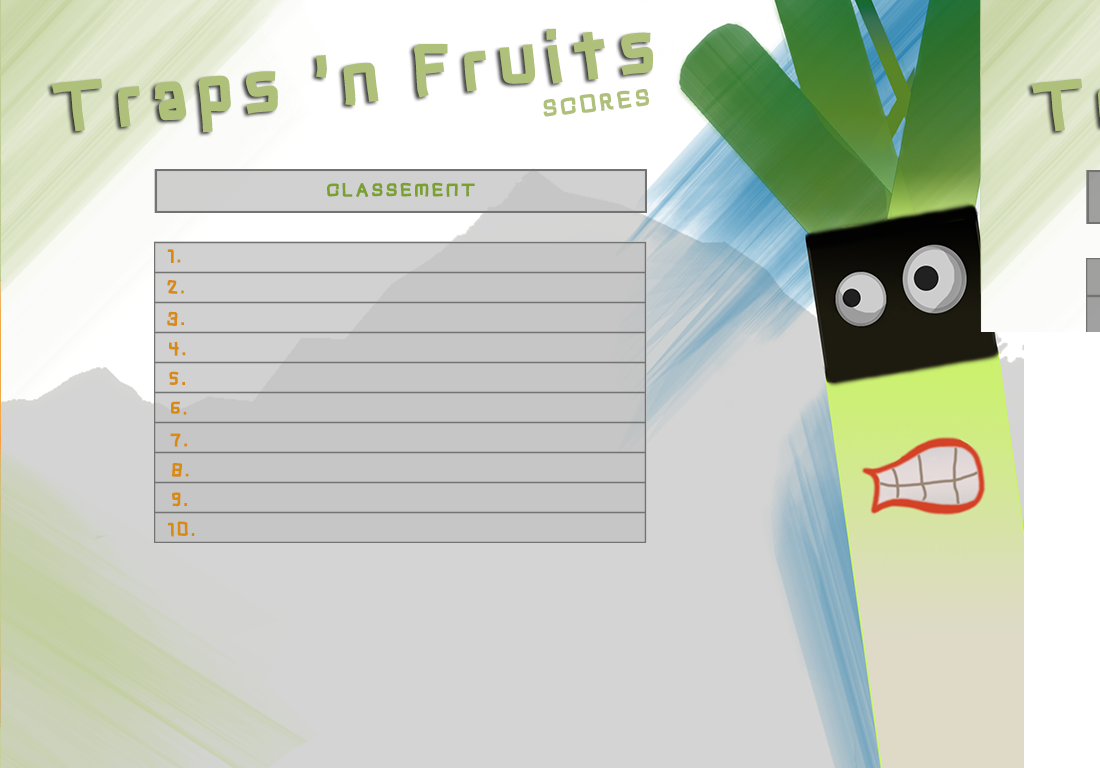
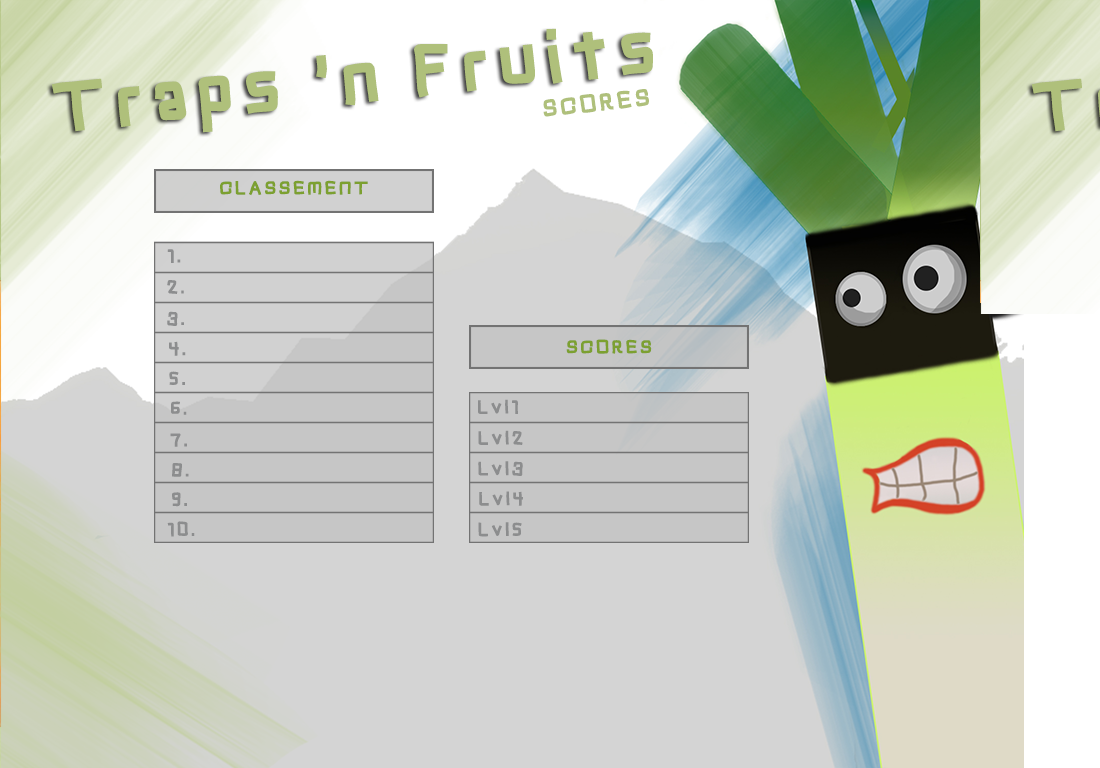
Push

diff --git a/affichage/fin.js b/affichage/fin.js
@@ -177,10 +177,13 @@
 					var tmp = "Lvl1="+score_l1_tmp+"; expires=Wed, 30 Dec 2015 00:00:00 UTC; path=/";
 					document.cookie = tmp;
 					document.cookie = "Lvl1tps="+score_l1tps_tmp+"; expires=Wed, 30 Dec 2015 00:00:00 UTC; path=/";
-				
+
 					score_l1 = score_l1_tmp;
 					score_l1tps = score_l1tps_tmp;
 					score_t = score_l1 + score_l2 + score_l3 + score_l4 + score_l5;
+
+					verification();
+					alert('done');
 					
 					var msge2 = stage.insert(new Q.UI.Text({ 
 						label: "BEST SCORE",
@@ -222,11 +225,13 @@
 					var tmp = "Lvl2="+score_l2_tmp+"; expires=Wed, 30 Dec 2015 00:00:00 UTC; path=/";
 					document.cookie = tmp;
 					document.cookie = "Lvl2tps="+score_l2tps_tmp+"; expires=Wed, 30 Dec 2015 00:00:00 UTC; path=/";
+					
 					score_l2 = score_l2_tmp;
 					score_l2tps = score_l2tps_tmp;
-					
 					score_t = score_l1 + score_l2 + score_l3 + score_l4 + score_l5;
 					
+					verification();
+
 					var msge2 = stage.insert(new Q.UI.Text({ 
 						label: "BEST SCORE",
 						x: 0,
@@ -271,6 +276,8 @@
 					score_l3tps = score_l3tps_tmp;
 					score_t = score_l1 + score_l2 + score_l3 + score_l4 + score_l5;
 					
+					verification();
+
 					var msge2 = stage.insert(new Q.UI.Text({ 
 						label: "BEST SCORE",
 						x: 0,
@@ -315,6 +322,8 @@
 					score_l4tps = score_l4tps_tmp;
 					score_t = score_l1 + score_l2 + score_l3 + score_l4 + score_l5;
 					
+					verification();
+
 					var msge2 = stage.insert(new Q.UI.Text({ 
 						label: "BEST SCORE",
 						x: 0,
@@ -357,9 +366,10 @@
 					
 					score_l5 = score_l5_tmp;
 					score_l5tps = score_l5tps_tmp;
-					
 					score_t = score_l1 + score_l2 + score_l3 + score_l4 + score_l5;
 					
+					verification();
+
 					var msge2 = stage.insert(new Q.UI.Text({ 
 						label: "BEST SCORE",
 						x: 0,

diff --git a/score.js b/score.js
@@ -104,6 +104,12 @@ var score_t = lireCookie(" Total");
 
 	score_t = parseInt(score_t);
 
+var pseudo = lireCookie(" Pseudo");
+	if (pseudo == null){
+		document.cookie = 'Pseudo=null; expires=Wed, 30 Dec 2015 00:00:00 UTC; path=/';
+		pseudo = "null";
+	}
+
 
 	
 // ------------------------------------------------------------------------------------
@@ -115,39 +121,16 @@ var score_t = lireCookie(" Total");
 			document.body.removeChild(DSLScript);
 	}
 
+	function verification() {
+			var DSLScript  = document.createElement("script");
+			DSLScript.src  = "verification.php?donnee="+score_t;
+			DSLScript.type = "text/javascript";
+			document.body.appendChild(DSLScript);
+			document.body.removeChild(DSLScript);
+	}
+
 Q.scene("Score", function(stage) {
-
 		send();
-		//alert();
 		setTimeout(function() {Q.stageScene("Classe",1);}, 100);
-		
-
-
-      /*  var xhr = getXMLHttpRequest();
-		xhr.open("GET", "bdd.php", true);
-		xhr.send(null);
-			
-		xhr.onreadystatechange = function() {
-		 if (xhr.readyState == 4 && (xhr.status == 200 || xhr.status == 0)) {
-  		
-		
-		
-		
-		
-		
-		}
-		}*/
-
-	/*var niv = stage.insert(new Q.UI.Text({ 
-        label: "Niveau 1 - "+score_l1tps+" ("+score_l1+")\nNiveau 2 - "+score_l2tps+" ("+score_l2+")\n"+
-		"Niveau 3 - "+score_l3tps+" ("+score_l3+")\nNiveau 4 - "+score_l4tps+" ("+score_l4+")\n"+
-		"  Boss - "+score_l5tps+" ("+score_l5+")\n\n    Total - "+score_t+" points",
-		size : 20,
-		family : "comic sans ms",
-        x: 0,
-        y: 10,
-		
-        })
-	);*/
 		
 });	

diff --git a/personnage.js b/personnage.js
@@ -97,8 +97,7 @@
 				
                 
 			}
-		
-		// Détruit le personnage s'il tombe premier niveau
+/*		// Détruit le personnage s'il tombe premier niveau
 			if(this.p.y> 420 && this.p.y<470 && this.p.x<1800){
 				this.destroy();
 				Q.clearStages();
@@ -127,7 +126,7 @@
 				scene_prec = "lvl1";
                 
 			}
-		
+*/		
 			if(this.p.x> 1850 && this.p.y>500 && !this.p.tut3){
 				Q.stageScene("tut3",2);
 			}

diff --git a/verification.php b/verification.php
@@ -1,0 +1,74 @@
+<?php  header("Content-type: text/javascript"); ?>
+
+<?php
+
+	session_start();
+
+	$db = mysql_connect('localhost', 'root', ''); 
+	mysql_select_db('traps',$db); 
+
+	// on crée la requête SQL 
+	$sql = 'SELECT Place, Min(Score) as sco FROM Classement'; 
+
+	$req = mysql_query($sql) or die('Erreur SQL !<br>'.$sql.'<br>'.mysql_error()); 
+
+	$i = 10; // variable pour trouver l'endroit où inserer
+	$j = 9;	//  variable qui va faire decaler le 9e à la 10e place par exemple
+	$bool = 1; // Arrête une fois que c fait
+
+	$data = mysql_fetch_row($req);
+
+	// IF le score minimum est inferieur au score total du joueur -> ajouté
+	// GET DONNEE = SCORE DU JOUEUR
+?> 		
+
+	if(<?php echo $data[1] ?> < <?php echo $_GET['donnee']?>){
+
+	<?php 
+		while ($bool == 1){
+
+			// Supposer chercher la bonne place
+			$sql = ('SELECT * FROM Classement WHERE Place = '.$i); 
+			$req = mysql_query($sql) or die('Erreur SQL !<br>'.$sql.'<br>'.mysql_error()); 
+			$data = mysql_fetch_row($req);
+
+
+			// IF RESULTAT A LA PLACE i > SCORE il faut inserer juste en dessous
+	?>
+
+		$u = <?php echo $data[2] ?>;
+		$v = <?php echo $_GET['donnee']?>;
+
+		if( $u > $v ){
+
+			<?php
+			// Enleve la ligne 10 qui forcement va partir
+				$sql = 'DELETE FROM Classement WHERE Place = 10'; 
+				$req = mysql_query($sql) or die('Erreur SQL !<br>'.$sql.'<br>'.mysql_error()); 
+
+				?>alert(<?php echo $j?>, <?php echo $i-1?>)<?php
+
+			// Décale les lignes
+				while ($j != $i-1){
+					$sql = 'UPDATE Classement SET Place ='.($j+1).' WHERE Place = '.$j; 
+					$req = mysql_query($sql);
+					$j = $j--;
+				}
+
+			// Insere score 660 a la ligne juste
+				$variable = 660;
+				$sql = 'INSERT INTO Classement Values ('.$j.', "Cacao", '.$variable.')'; 
+				$req = mysql_query($sql) or die('Erreur SQL !<br>'.$sql.'<br>'.mysql_error()); 
+				$bool = 0;
+				?>
+
+		}else{
+			<?php		
+			?>alert(<?php echo $i?>)<?php
+				$i--;
+			?>
+		}
+<?php
+	}
+?>
+	}

diff --git a/bdd.php b/bdd.php
@@ -57,7 +57,7 @@ while($data = mysql_fetch_assoc($req)) { ?>
 	        label: "<?php echo $data['Score'] ?>",
 			size : 17,
 			family : "comic sans ms",
-	        x: 350,
+	        x: 380,
 	        y: <?php echo $i?>,
 			
 	        }), Opacite
@@ -67,6 +67,61 @@ while($data = mysql_fetch_assoc($req)) { ?>
 
 	}
 
-    ?>    
+    ?>
 
+    var lvl = stage.insert(new Q.UI.Text({ 
+	        label: score_l1tps+"min    ("+score_l1+" pts)",    
+
+			size : 17,
+			family : "comic sans ms",
+	        x: 630,
+	        y: 410
+			
+	        }), Opacite
+	        );
+
+	var lvl = stage.insert(new Q.UI.Text({ 
+	        label: score_l2tps+"min    ("+score_l2+" pts)",    
+
+			size : 17,
+			family : "comic sans ms",
+	        x: 630,
+	        y: 440
+			
+	        }), Opacite
+	        );
+
+    var lvl = stage.insert(new Q.UI.Text({ 
+	        label: score_l3tps+"min    ("+score_l3+" pts)",    
+
+			size : 17,
+			family : "comic sans ms",
+	        x: 630,
+	        y: 470
+			
+	        }), Opacite
+	        );
+	        
+	var lvl = stage.insert(new Q.UI.Text({ 
+	        label: score_l4tps+"min    ("+score_l4+" pts)",    
+
+			size : 17,
+			family : "comic sans ms",
+	        x: 630,
+	        y: 500
+			
+	        }), Opacite
+	        );
+
+    var lvl = stage.insert(new Q.UI.Text({ 
+	        label: score_l5tps+"min    ("+score_l5+" pts)",    
+
+			size : 17,
+			family : "comic sans ms",
+	        x: 630,
+	        y: 530
+			
+	        }), Opacite
+	        );
+	        
 });
